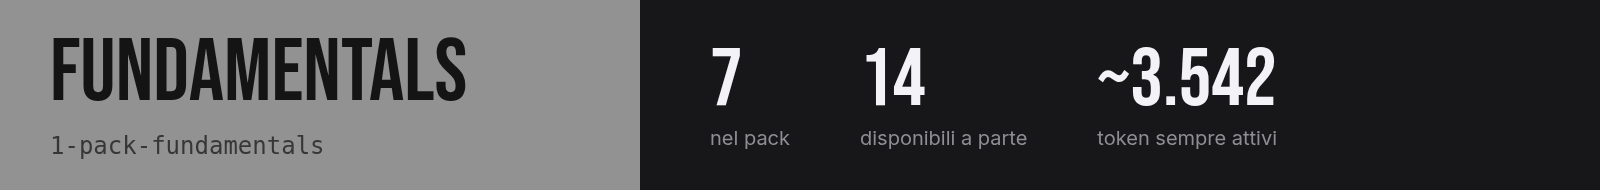
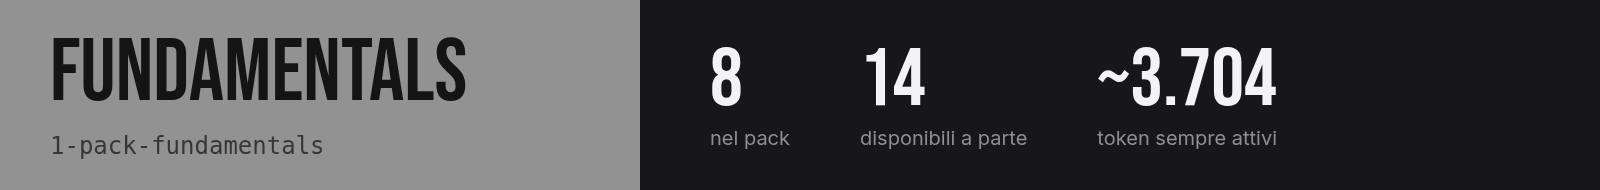
feat: add be-ambitious to the Fundamentals pack
Claude-Session: https://claude.ai/code/session_015vXQvcgbemsZy1L9YqWUro

Changed region(s): [[0.7188, 0.2368, 0.8125, 0.5526], [0.4375, 0.2368, 0.4688, 0.5526]]

diff --git a/README.it.md b/README.it.md
@@ -58,7 +58,7 @@ Le voci sono di cinque tipi:
 
 | Pack | Installa | Token |
 |---|---|---|
-| `1-pack-fundamentals` | 7 plugin | ~3.542 |
+| `1-pack-fundamentals` | 8 plugin | ~3.704 |
 | `2-pack-context-memory` | 4 plugin | ~3.710 |
 | `3-pack-design` | 6 plugin | ~3.484 |
 | `4-pack-design-advanced` | 4 plugin | ~1.481 |
@@ -83,6 +83,7 @@ I plugin con tag `bonus`, i due plugin dei repo interi e i plugin usciti dal pac
 | [`codegraph`](./plugins/codegraph) | CodeGraph MCP: grafo di conoscenza del codice (simboli, chiamanti, impatto). Richiede la CLI installata: npm install -g @colbymchenry/codegraph | MCP | ~0 |
 | [`humanizer`](https://github.com/blader/humanizer) | Toglie dal testo i segni di scrittura generata dall'AI | 1 skill | ~90 |
 | [`teach`](https://github.com/mattpocock/skills/tree/HEAD/skills/productivity/teach) | Insegna all'utente una nuova abilità o un concetto, dentro questo workspace | 1 skill | ~18 |
+| [`be-ambitious`](https://github.com/robonuggets/be-ambitious) | Alza il livello di un compito o di un prompt con altitudine, profondità e raggio di Felix Rieseberg, poi fa il lavoro | 1 skill | ~162 |
 
 Nel pack c'è anche `claude-mem`. Viene dal suo marketplace (`thedotmack`), elencato in Context & Memory.
 

diff --git a/README.md b/README.md
@@ -58,7 +58,7 @@ Entries come in five kinds:
 
 | Pack | Installs | Tokens |
 |---|---|---|
-| `1-pack-fundamentals` | 7 plugins | ~3,542 |
+| `1-pack-fundamentals` | 8 plugins | ~3,704 |
 | `2-pack-context-memory` | 4 plugins | ~3,710 |
 | `3-pack-design` | 6 plugins | ~3,484 |
 | `4-pack-design-advanced` | 4 plugins | ~1,481 |
@@ -83,6 +83,7 @@ Plugins tagged `bonus`, the two full-repo plugins and the plugins that left the 
 | [`codegraph`](./plugins/codegraph) | CodeGraph MCP: code-intelligence knowledge graph (symbols, callers, impact). Needs the CLI installed: npm install -g @colbymchenry/codegraph | MCP | ~0 |
 | [`humanizer`](https://github.com/blader/humanizer) | Removes signs of AI-generated writing from text | 1 skill | ~90 |
 | [`teach`](https://github.com/mattpocock/skills/tree/HEAD/skills/productivity/teach) | Teach the user a new skill or concept, within this workspace | 1 skill | ~18 |
+| [`be-ambitious`](https://github.com/robonuggets/be-ambitious) | Aim a task or prompt higher with Felix Rieseberg's altitude, depth and range, then do the work | 1 skill | ~162 |
 
 `claude-mem` is also in this pack. It comes from its own marketplace (`thedotmack`), listed under Context & Memory.
 
